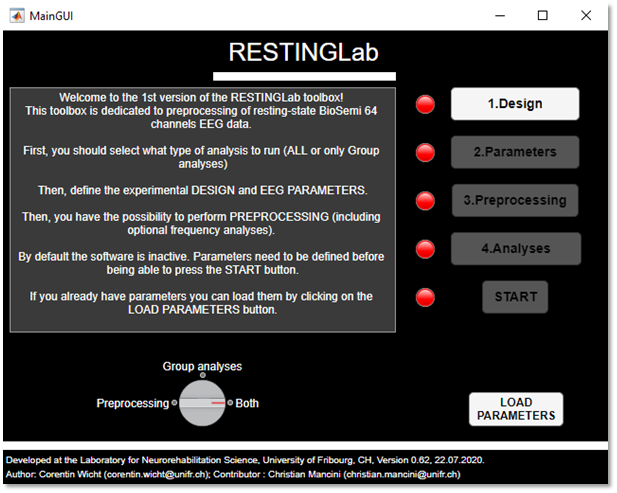
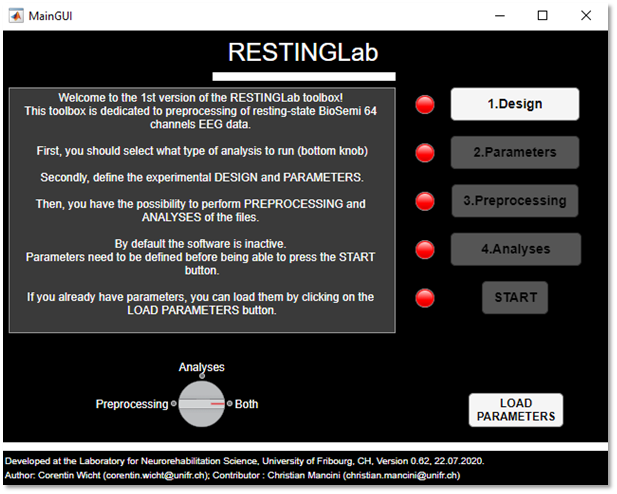
Minor fixes to MainGUI

diff --git a/UPDATES.md b/UPDATES.md
@@ -22,5 +22,4 @@ Error when opening 2.EEG parameters (when parameters are already loaded)
 • Problems to solve in the future:
 
 Find a way to implement ASR-interpolation for BLINKER
-Implement the method for 3D electrode localisation
 Find a way to run the sleep detection algorithm
